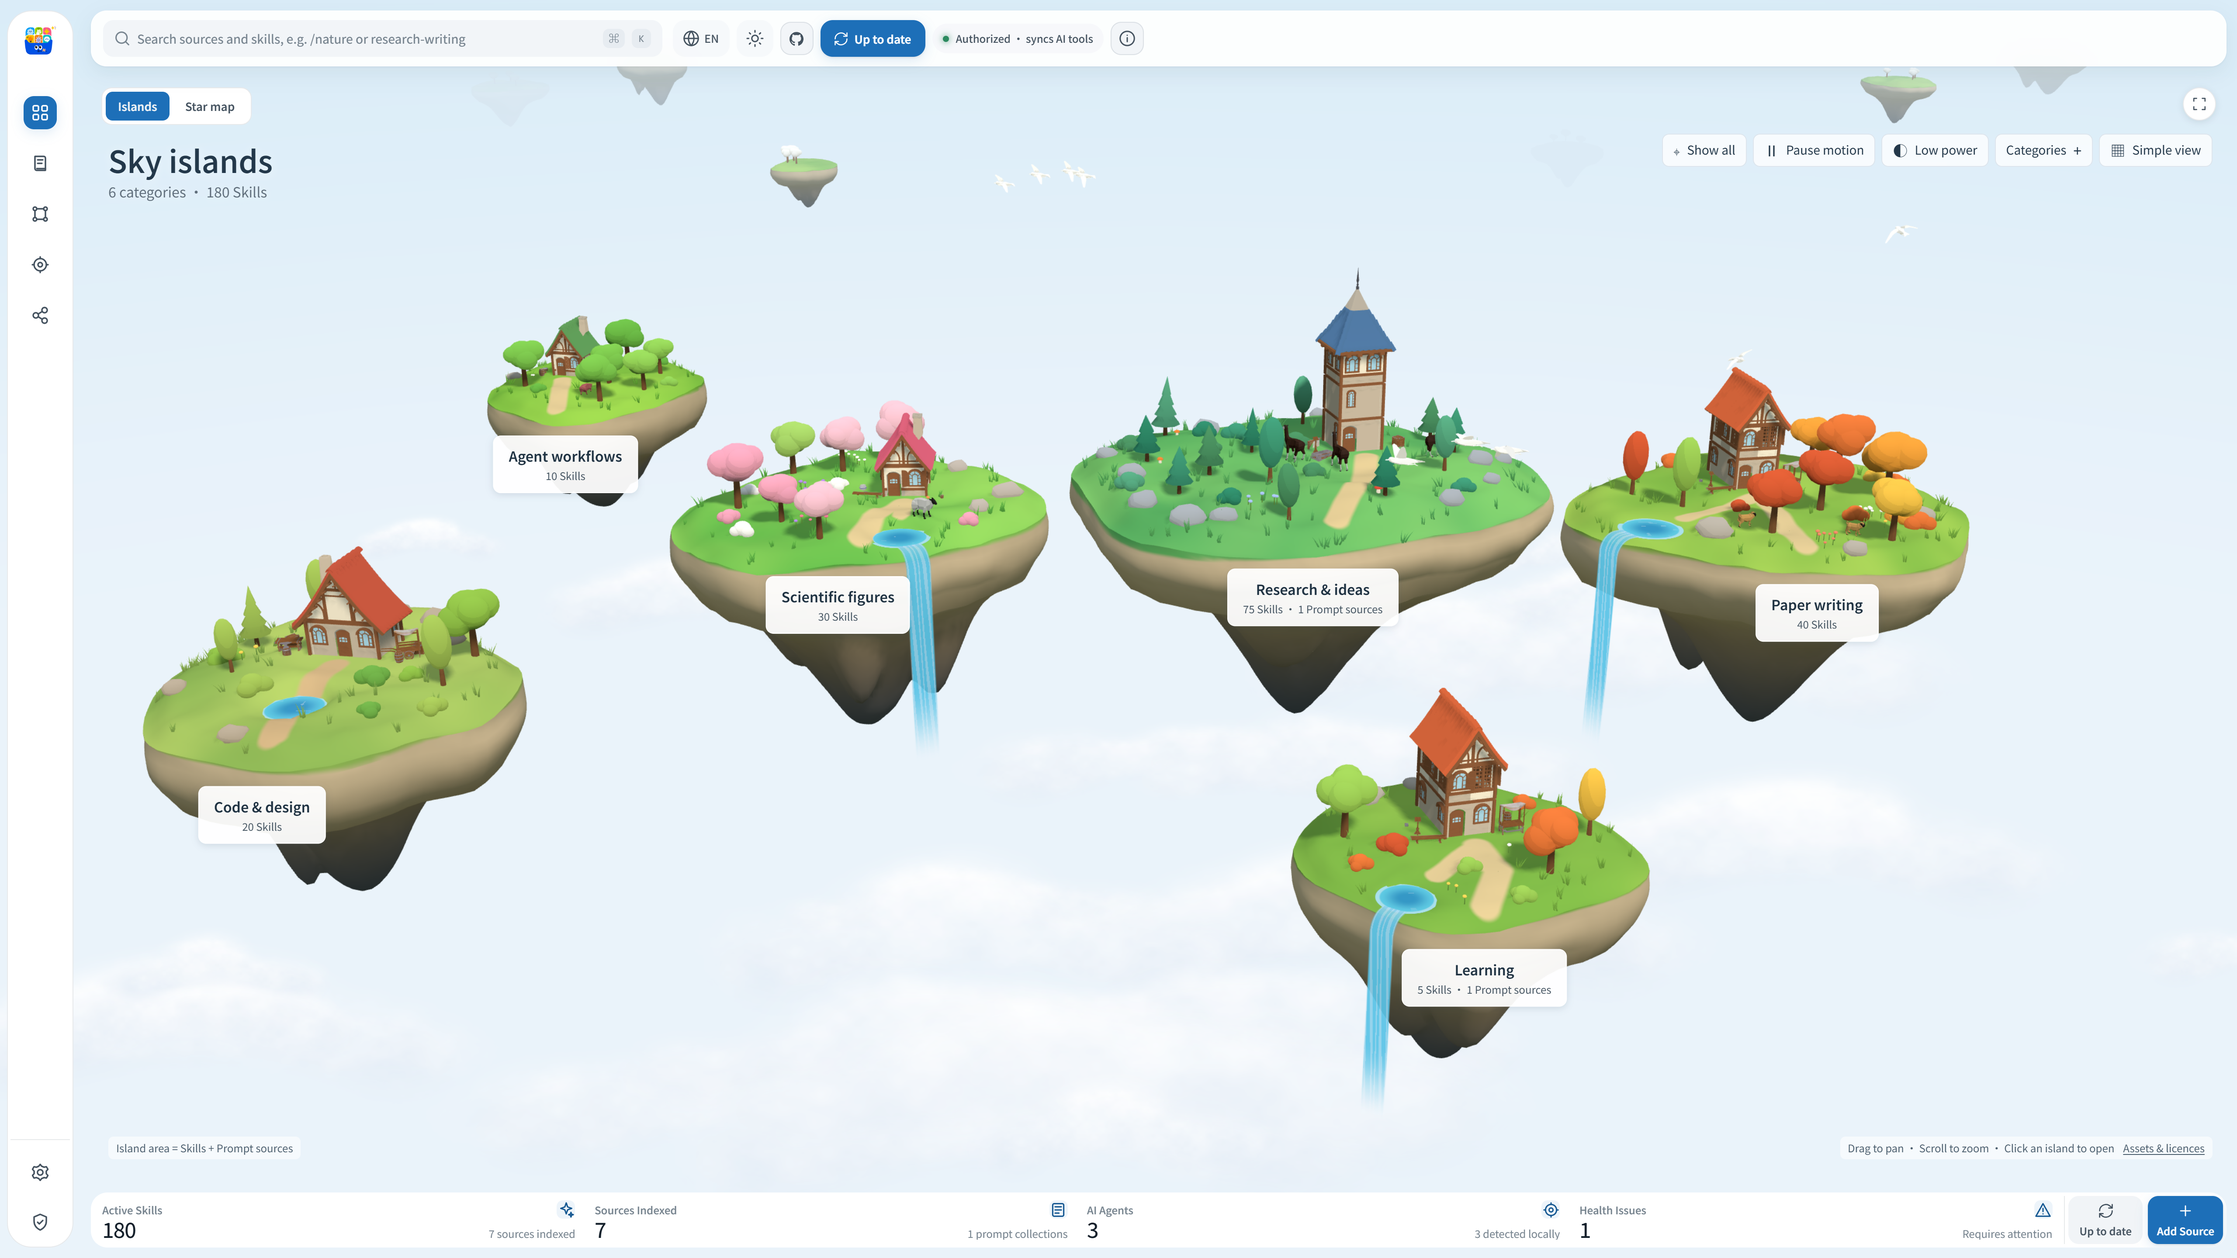
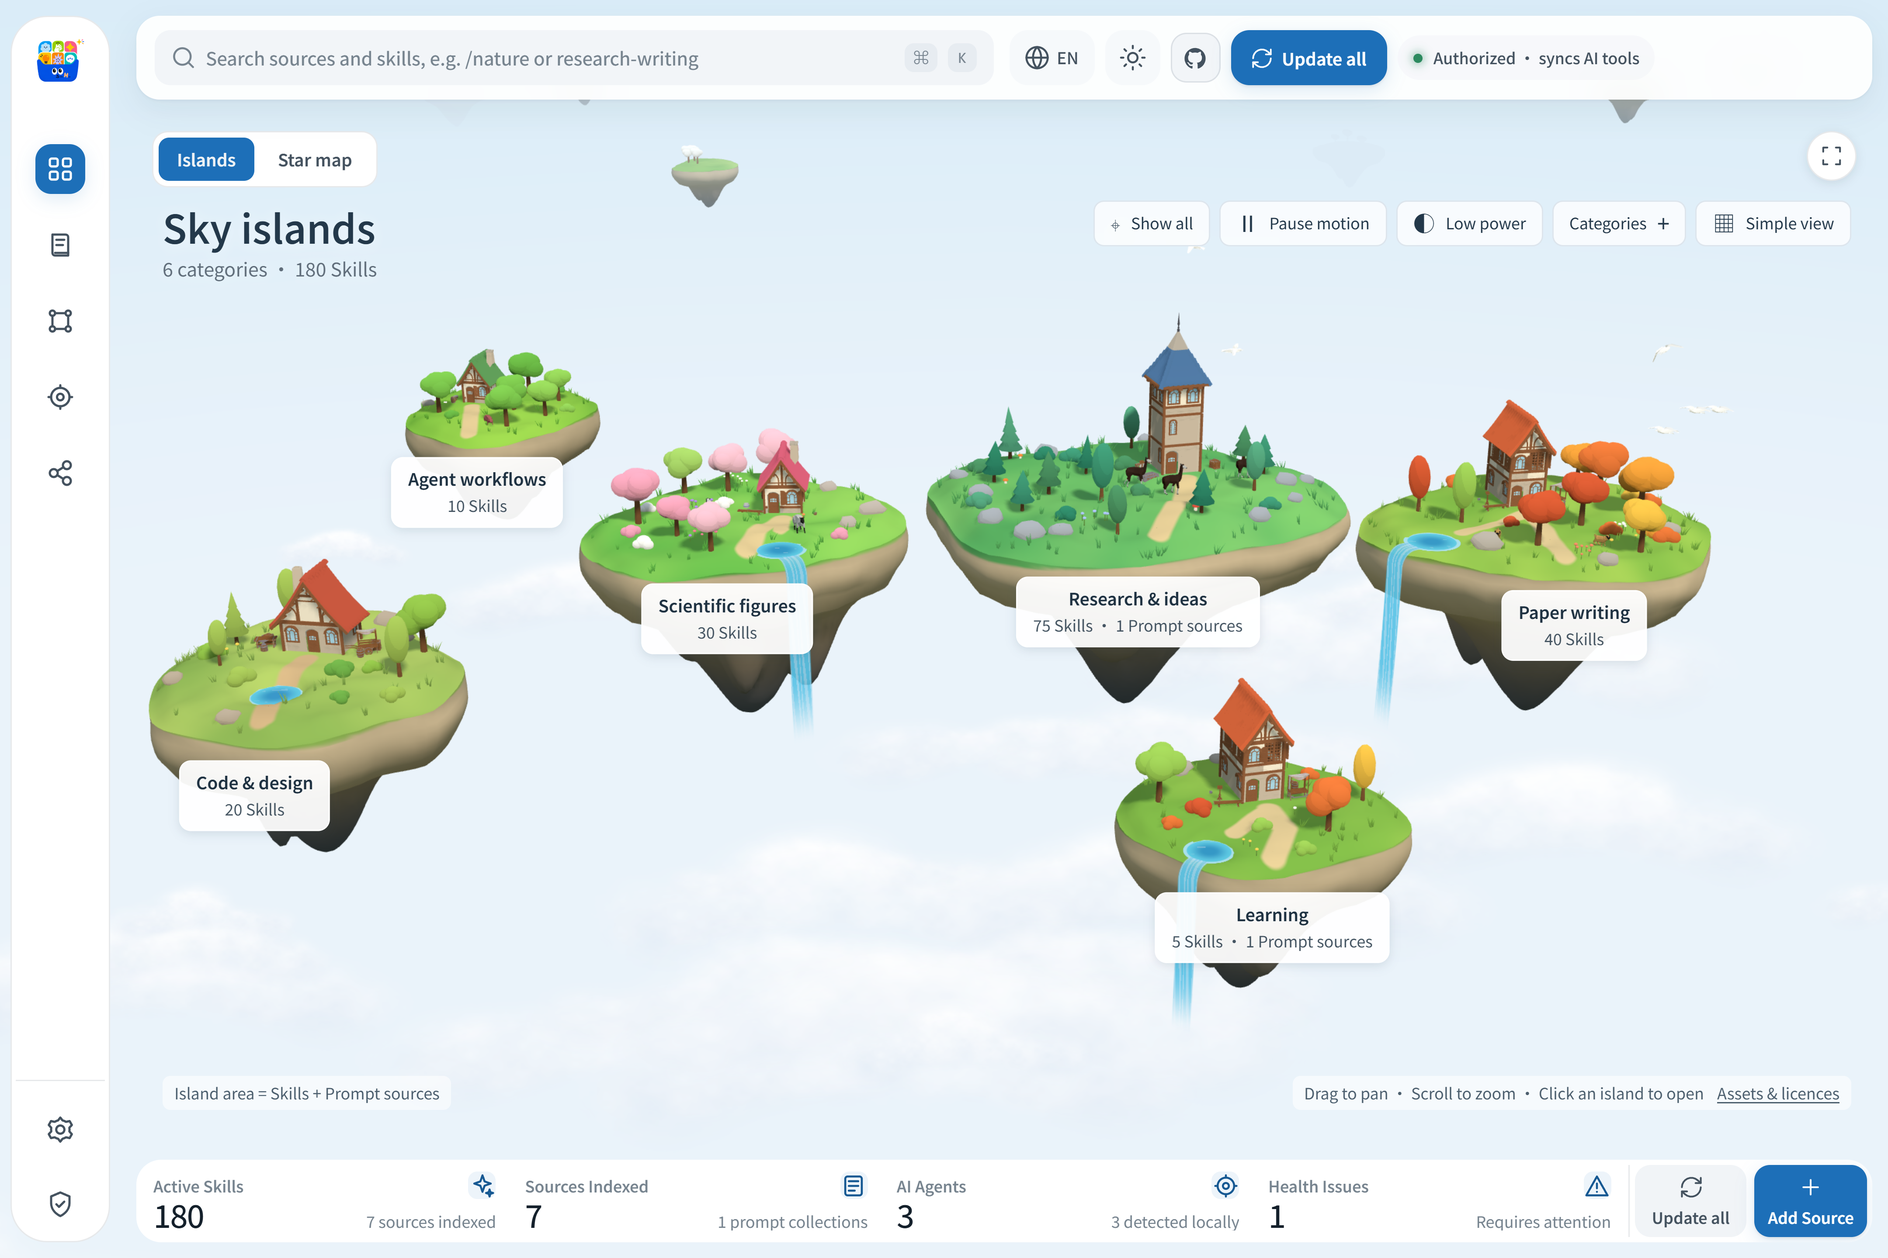
docs: restore Chinese homepage and high-resolution window previews

diff --git a/README.md b/README.md
@@ -1,62 +1,76 @@
 # AI SkillHub
 
-**English** · [Chinese](README_ZH.md) · [Korean](README_KO.md)
+**简体中文** · [English](README_EN.md) · [한국어](README_KO.md)
 
-### Your AI Skills, organized in one place.
+### 在一个地方，整理你的 AI Skills。
 
-A Windows desktop app for collecting Skills, keeping their sources up to date, and connecting them to your AI tools. Manage GitHub repositories, local Skills, Prompt collections, and MCP configurations from a searchable local library.
+一款 Windows 桌面应用，用于收集 Skills、更新来源，并连接到你的 AI 工具。在可搜索的本地技能库中管理 GitHub 仓库、本地 Skills、Prompt 资料和 MCP 配置。
 
-[**Download the latest release**](https://github.com/Francis-Zxp/AI-SkillHub/releases/latest) · [What's new](CHANGELOG.md) · [Report an issue](https://github.com/Francis-Zxp/AI-SkillHub/issues)
+[**下载最新正式版**](https://github.com/Francis-Zxp/AI-SkillHub/releases/latest) · [更新记录](CHANGELOG.md) · [反馈问题](https://github.com/Francis-Zxp/AI-SkillHub/issues)
 
-![AI SkillHub — English dashboard with the Sky noon theme](docs/images/sky-noon-festival-en.png)
+## 界面预览
 
-*Sample library in the Sky noon theme. Each island represents a category; its size reflects the content it contains.*
+### 天空正午 · 群岛
 
-## What you can do
+![天空正午群岛 — 普通窗口、英文界面](docs/images/sky-noon-festival-en.png)
 
-| Task | How AI SkillHub helps |
+*每座岛代表一个分类，岛屿大小反映分类中包含的内容量。*
+
+### 极夜 · 星图
+
+![极夜星图 — 普通窗口、英文界面](docs/images/midnight-window-en.png)
+
+### 关系图谱 · 沉浸视图
+
+![关系图谱 — 普通窗口内的应用沉浸视图](docs/images/relations-immersive-window-en.png)
+
+*截图使用英文演示技能库。三张均按 1440 × 960 普通窗口布局，以 4320 × 2880 高分辨率输出。关系图谱开启应用内的沉浸按钮，程序与桌面均未全屏。点击图片可查看原图。*
+
+## 可以做什么
+
+| 任务 | AI SkillHub 如何帮助你 |
 | --- | --- |
-| Build your library | Import GitHub repositories, local folders, ZIP files, or `.skill` packages. Discover Skills already present in supported local AI-tool directories. |
-| Find the right capability | Search, categorize, tag, rate, and annotate sources and individual Skills. Explore categories as islands or relationships as a star map. |
-| Keep sources current | Check upstream Git repositories and bring in newly added Skills. See which sources changed, stayed current, failed, or were skipped. |
-| Use multiple AI tools | Detect supported tools such as Claude Code, Codex, and Antigravity, then deliver enabled Skills to the selected tools. |
-| Keep similar Skills together | Source-specific parent entries preserve each collection and its child Skills. Similar capabilities from different authors can coexist. |
-| Manage MCP connections | Inspect supported host configurations, preview changes, apply bindings, and restore snapshots. Origin MCP also has a dedicated setup and connection check. |
+| 建立技能库 | 导入 GitHub 仓库、本地文件夹、ZIP 或 `.skill` 包，也可发现受支持的本机 AI 工具目录中已有的 Skills。 |
+| 找到合适的能力 | 搜索、分类、添加标签、评分和备注，管理来源与单个 Skill。用群岛浏览分类，用星图查看关系。 |
+| 更新来源 | 检查上游 Git 仓库并同步新增 Skills，逐项查看已更新、已是最新、失败或跳过的来源。 |
+| 连接多个 AI 工具 | 检测 Claude Code、Codex、Antigravity 等受支持的工具，将已启用 Skills 投递到选定工具。 |
+| 保留相似 Skills | 每个来源有独立父入口及其子 Skills；不同作者的相似能力可以同时保留。 |
+| 管理 MCP 连接 | 读取受支持宿主的配置、预览变更、应用绑定和恢复快照。Origin MCP 另有专用安装与连接检测。 |
 
-## Start in three steps
+## 三步开始
 
-1. **Install** the `AI-SkillHub-<version>-setup.exe` from the latest release. A ZIP package is also available.
-2. **Add a source** in the Skill Library, or discover existing Skills under AI Tools.
-3. **Choose your AI tools** and synchronize the enabled Skills. Open a source to see its usage instructions.
+1. **安装应用**：从最新正式版下载 `AI-SkillHub-<version>-setup.exe`，也可选择 ZIP 包。
+2. **添加来源**：在技能库导入来源，或在 AI 工具页面发现本机已有的 Skills。
+3. **选择 AI 工具**：同步已启用的 Skills，打开来源查看使用说明。
 
-The interface is available in English, Chinese, and Korean. Theme, text size, icon size, animation, and power-saving controls let you adjust the workspace.
+界面支持中文、英文和韩文。可调整主题、文字大小、图标大小、动画和省电模式。
 
-## Skills, Prompts, and MCP
+## Skills、Prompts 与 MCP
 
-- **Skills** contain `SKILL.md` and describe capabilities an agent can load. Parent entries organize the child Skills belonging to the same source.
-- **Prompts** are reusable instructions or reference materials. A Prompt repository is not installed as a Skill merely because it contains Markdown files.
-- **MCP** connects an AI client to an external server or application. Importing a configuration does not install every server dependency or prove that it is running; use the connection checks provided for supported integrations.
+- **Skills** 包含 `SKILL.md`，描述 Agent 可以加载的能力。父入口组织同一来源下的子 Skills。
+- **Prompts** 是可复用的指令或参考资料。只有 Markdown 文件的 Prompt 仓库不会因此被安装成 Skill。
+- **MCP** 将 AI 客户端连接到外部服务器或应用。导入配置不代表服务器依赖已全部安装，也不代表服务已运行；受支持的集成可使用应用中的连接检测。
 
-## Updates and your data
+## 更新与数据
 
-**Source updates** pull changes from the original repositories. A pinned version, local edits, or a source without an upstream address may require attention; the update results explain the outcome for each source. Your own notes and ratings remain separate from upstream content.
+**来源更新**从原始仓库拉取改动。固定版本、本地修改或没有上游地址的来源可能需要处理，更新结果会逐项说明原因。你自己的备注与评分独立于上游内容保存。
 
-**App updates** use signed official release packages. Settings provides update checks and installation; the latest release page remains available for manual downloads. Release history lives in the [changelog](CHANGELOG.md).
+**应用更新**使用签名的官方正式版安装包，可在设置中检查并安装，也可到最新正式版页面手动下载。历史版本信息集中在[更新记录](CHANGELOG.md)。
 
-Your library, settings, ratings, and local index are stored outside the program directory:
+技能库、设置、评分与本地索引存放在程序目录之外：
 
 ```text
 %LOCALAPPDATA%\AI SkillHub\UserData\
 ```
 
-Imported source scripts are not executed during scanning. Source review, diagnostics, and recoverable snapshots help you inspect changes before applying them. Public release packages do not include the developer's personal library.
+扫描时不会执行导入来源中的脚本。来源审查、诊断和可恢复快照用于在应用变更前核对内容。公开发布包不包含开发者的个人技能库。
 
-## Development
+## 开发
 
-Built with **Tauri 2 · React · TypeScript · Rust · SQLite**.
+技术栈：**Tauri 2 · React · TypeScript · Rust · SQLite**。
 
-The maintained desktop workspace is [`app-next`](app-next/README.md). See its documentation for development requirements and commands, and the [Skill Router Standard](docs/skill-router-standard.md) for parent and child routing.
+当前维护的桌面工程位于 [`app-next`](app-next/README.md)，开发要求与命令见该目录的文档。父子路由规则见 [Skill Router Standard](docs/skill-router-standard.md)。
 
 ---
 
-Created by **FrancisZhu**.
+作者：**FrancisZhu**。

diff --git a/README_EN.md b/README_EN.md
@@ -1,5 +1,76 @@
-# AI SkillHub — English
+# AI SkillHub
 
-The English project overview is now the [main README](README.md).
+[简体中文](README.md) · **English** · [한국어](README_KO.md)
 
-[Download the latest release](https://github.com/Francis-Zxp/AI-SkillHub/releases/latest) · [Chinese](README_ZH.md) · [Korean](README_KO.md)
+### Your AI Skills, organized in one place.
+
+A Windows desktop app for collecting Skills, keeping their sources up to date, and connecting them to your AI tools. Manage GitHub repositories, local Skills, Prompt collections, and MCP configurations from a searchable local library.
+
+[**Download the latest release**](https://github.com/Francis-Zxp/AI-SkillHub/releases/latest) · [What's new](CHANGELOG.md) · [Report an issue](https://github.com/Francis-Zxp/AI-SkillHub/issues)
+
+## A closer look
+
+### Sky noon · Islands
+
+![Sky noon islands — normal window, English interface](docs/images/sky-noon-festival-en.png)
+
+*Each island represents a category; its size reflects the content it contains.*
+
+### Midnight · Star map
+
+![Midnight star map — normal window, English interface](docs/images/midnight-window-en.png)
+
+### Relations · Focus view
+
+![Relation graph — in-app focus view inside a normal window](docs/images/relations-immersive-window-en.png)
+
+*English sample library. All images use a normal 1440 × 960 window viewport rendered at 4320 × 2880. The relation graph uses the app's focus button; the program and desktop are not in full-screen mode. Open an image to view it at full resolution.*
+
+## What you can do
+
+| Task | How AI SkillHub helps |
+| --- | --- |
+| Build your library | Import GitHub repositories, local folders, ZIP files, or `.skill` packages. Discover Skills already present in supported local AI-tool directories. |
+| Find the right capability | Search, categorize, tag, rate, and annotate sources and individual Skills. Explore categories as islands or relationships as a star map. |
+| Keep sources current | Check upstream Git repositories and bring in newly added Skills. See which sources changed, stayed current, failed, or were skipped. |
+| Use multiple AI tools | Detect supported tools such as Claude Code, Codex, and Antigravity, then deliver enabled Skills to the selected tools. |
+| Keep similar Skills together | Source-specific parent entries preserve each collection and its child Skills. Similar capabilities from different authors can coexist. |
+| Manage MCP connections | Inspect supported host configurations, preview changes, apply bindings, and restore snapshots. Origin MCP also has a dedicated setup and connection check. |
+
+## Start in three steps
+
+1. **Install** the `AI-SkillHub-<version>-setup.exe` from the latest release. A ZIP package is also available.
+2. **Add a source** in the Skill Library, or discover existing Skills under AI Tools.
+3. **Choose your AI tools** and synchronize the enabled Skills. Open a source to see its usage instructions.
+
+The interface is available in English, Chinese, and Korean. Theme, text size, icon size, animation, and power-saving controls let you adjust the workspace.
+
+## Skills, Prompts, and MCP
+
+- **Skills** contain `SKILL.md` and describe capabilities an agent can load. Parent entries organize the child Skills belonging to the same source.
+- **Prompts** are reusable instructions or reference materials. A Prompt repository is not installed as a Skill merely because it contains Markdown files.
+- **MCP** connects an AI client to an external server or application. Importing a configuration does not install every server dependency or prove that it is running; use the connection checks provided for supported integrations.
+
+## Updates and your data
+
+**Source updates** pull changes from the original repositories. A pinned version, local edits, or a source without an upstream address may require attention; the update results explain the outcome for each source. Your own notes and ratings remain separate from upstream content.
+
+**App updates** use signed official release packages. Settings provides update checks and installation; the latest release page remains available for manual downloads. Release history lives in the [changelog](CHANGELOG.md).
+
+Your library, settings, ratings, and local index are stored outside the program directory:
+
+```text
+%LOCALAPPDATA%\AI SkillHub\UserData\
+```
+
+Imported source scripts are not executed during scanning. Source review, diagnostics, and recoverable snapshots help you inspect changes before applying them. Public release packages do not include the developer's personal library.
+
+## Development
+
+Built with **Tauri 2 · React · TypeScript · Rust · SQLite**.
+
+The maintained desktop workspace is [`app-next`](app-next/README.md). See its documentation for development requirements and commands, and the [Skill Router Standard](docs/skill-router-standard.md) for parent and child routing.
+
+---
+
+Created by **FrancisZhu**.

diff --git a/docs/reviews/2026-10-03-window-screens-and-mineru-updates.md b/docs/reviews/2026-10-03-window-screens-and-mineru-updates.md
@@ -1,0 +1,33 @@
+# Window screenshots and MinerU update repair
+
+The GitHub homepage now opens in Simplified Chinese, with complete English and Korean counterparts.
+
+## Screenshot evidence
+
+Three English screenshots use the current application UI and an isolated demonstration library:
+
+| View | State | Output |
+| --- | --- | --- |
+| Sky noon islands | Normal window layout | 4320 × 2880 PNG |
+| Midnight star map | Normal window layout | 4320 × 2880 PNG |
+| Relations graph | Application immersive toggle enabled | 4320 × 2880 PNG |
+
+The layout viewport is 1440 × 960 at device scale 3. Browser/OS fullscreen remains off. These are Playwright-rendered application contents, without a native window frame; they are not whole-desktop captures. Checks found no Chinese UI text, toast overlays, or page errors. Images were visually inspected.
+
+## MinerU: two independent update mechanisms
+
+The manually imported `mineru-document-extractor` Skill had no Git metadata or upstream URL. Its original `SKILL.md` matches the official `opendatalab/MinerU-Ecosystem` Git blob exactly (`ffb26c4448e5ed3e6b4ef48d37e00e1bd2ba4402`). The other two package files match after normalizing Windows checkout line endings.
+
+The local source was converted to a sparse Git checkout of the official repository's `skills` directory. The existing source folder, source identity, parent invocation name and category membership were retained. The parent router now resolves the author's `skills/SKILL.md`. The working tree is clean, and the upstream URL is indexed. Subsequent source updates can follow the existing Git update path. Local edits or a pinned revision will still deliberately prevent an unsafe overwrite.
+
+Separately, the Codex MinerU MCP launch argument changed from `mineru-open-mcp` to `mineru-open-mcp@latest`, following [uv's documented latest-version behavior](https://docs.astral.sh/uv/guides/tools/). The launcher path, environment-variable credential declaration and all other configuration values were preserved. The latest resolved distribution is `mineru-open-mcp` 1.0.22. MCP initialization and `tools/list` succeeded, listing `parse_documents` and `get_ocr_languages`. No document upload or tool execution was performed. An already-running MCP process needs to restart to use the new launch argument.
+
+## Validation and recovery
+
+- Original Skill files, SQLite, app configuration and parent router were backed up before migration; the MCP configuration was backed up separately.
+- A full isolated executable copy, user profile and data root verified the nested Skill layout and generated parent router before modifying the real source.
+- Migration used a staged directory swap and rollback on failure. The temporary previous-directory record was removed by a final native index refresh after moving the original out of the scanned sources directory.
+- Final native indexing contains exactly one MinerU source and the original source identity/category membership. Its parent router resolves an existing official Skill file.
+- No application code or release version changed. Public application release remains v3.2.15.
+
+Sources: [MinerU official ecosystem](https://github.com/opendatalab/MinerU-Ecosystem), [uv tools documentation](https://docs.astral.sh/uv/guides/tools/).

diff --git a/README_ZH.md b/README_ZH.md
@@ -1,6 +1,6 @@
 # AI SkillHub
 
-[English](README.md) · **简体中文** · [한국어](README_KO.md)
+**简体中文** · [English](README_EN.md) · [한국어](README_KO.md)
 
 ### 在一个地方，整理你的 AI Skills。
 
@@ -8,9 +8,23 @@
 
 [**下载最新正式版**](https://github.com/Francis-Zxp/AI-SkillHub/releases/latest) · [更新记录](CHANGELOG.md) · [反馈问题](https://github.com/Francis-Zxp/AI-SkillHub/issues)
 
-![AI SkillHub — 英文界面的天空正午主题仪表盘](docs/images/sky-noon-festival-en.png)
+## 界面预览
 
-*英文演示技能库，天空正午主题。每座岛代表一个分类，岛屿大小反映分类中包含的内容量。*
+### 天空正午 · 群岛
+
+![天空正午群岛 — 普通窗口、英文界面](docs/images/sky-noon-festival-en.png)
+
+*每座岛代表一个分类，岛屿大小反映分类中包含的内容量。*
+
+### 极夜 · 星图
+
+![极夜星图 — 普通窗口、英文界面](docs/images/midnight-window-en.png)
+
+### 关系图谱 · 沉浸视图
+
+![关系图谱 — 普通窗口内的应用沉浸视图](docs/images/relations-immersive-window-en.png)
+
+*截图使用英文演示技能库。三张均按 1440 × 960 普通窗口布局，以 4320 × 2880 高分辨率输出。关系图谱开启应用内的沉浸按钮，程序与桌面均未全屏。点击图片可查看原图。*
 
 ## 可以做什么
 
